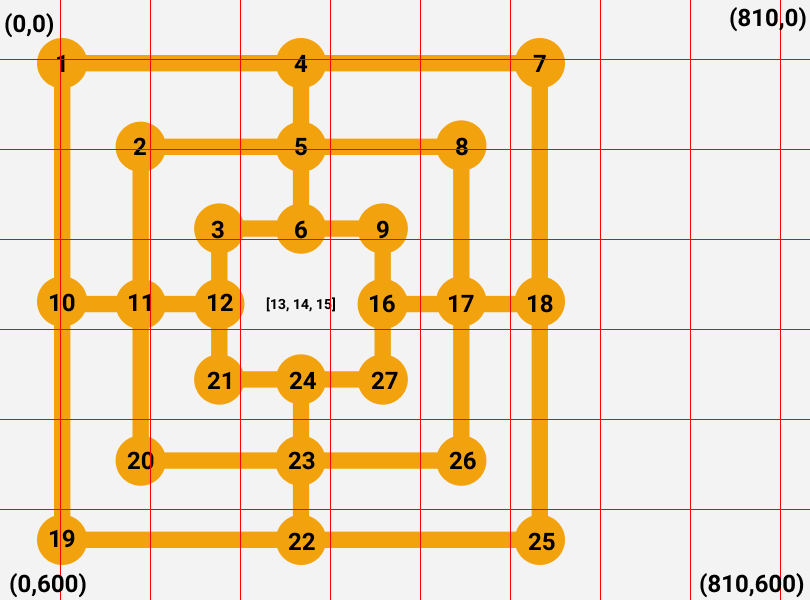
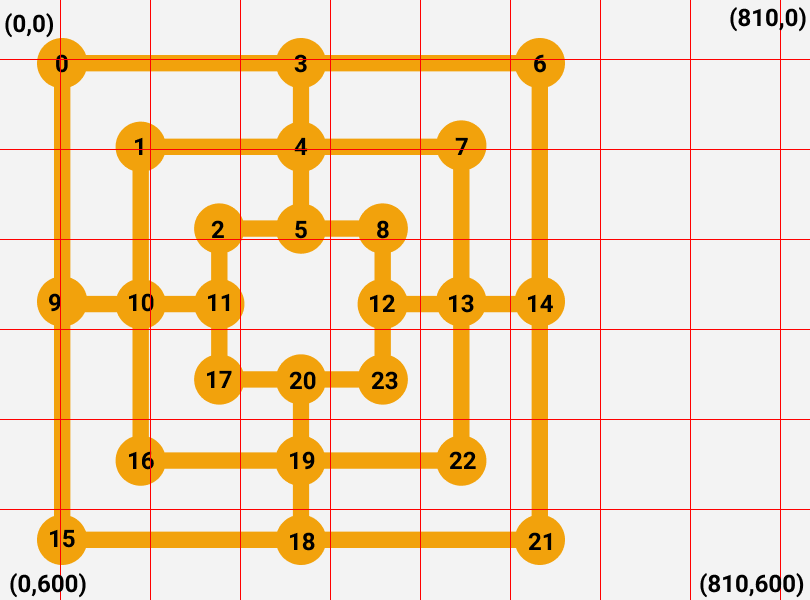
Nova busca de trilha + nova modelagem do jogo

diff --git a/genetic.py b/genetic.py
@@ -2,27 +2,30 @@
 Algoritmo Genético do Jogo
 '''
 from genetico import Genetico
-
+import numpy as np
 
 class Genetic:
     def __init__(self):
-        self.sizeChromosome = 27
+        self.sizeChromosome = 24
         # Random
         # self.chromosome = [1,2,0,0,2,0,1,0,1,2,1,2,1,2,0,0,0,2,1,2,0,1,0,2,0,2,1]
         # start
-        self.chromosome = [0,0,0,0,0,0,0,0,0,0,0,0,0,0,0,0,0,0,0,0,0,0,0,0,0,0,0]
+        self.chromosome = [0,0,0,0,0,0,0,0,0,0,0,0,0,0,0,0,0,0,0,0,0,0,0,0]
         # begin 2nd stage
         # self.chromosome = [2,2,2,2,2,2,2,2,2,0,0,0,0,0,0,0,0,0,1,1,1,1,1,1,1,1,1]
 
     def getChromosome(self):
         return self.chromosome
 
+    def getSizeChromosome(self):
+        return self.sizeChromosome
+
     def setPositionPlayer(self, position):
-        if position >= 0 and position <= 27:
+        if position >= 0 and position <= self.sizeChromosome:
             self.chromosome[position] = 1
 
     def removePiece(self, position):
-        if position >= 0 and position <= 27:
+        if position >= 0 and position <= self.sizeChromosome:
             self.chromosome[position] = 0
 
     def setPositionMachine1stage(self):
@@ -53,88 +56,14 @@ class Genetic:
     def getQtdPiecesMachine(self):
         qtd = 0
 
-        for i in range(27):
+        for i in range(self.sizeChromosome):
             if self.chromosome[i] == 2:
                 qtd = qtd + 1
 
         return qtd
 
-    def isTrailPlayer(self):
-        if self.chromosome[0] == 1 and self.chromosome[3] == 1 and self.chromosome[6] == 1:
-            return True
-        elif self.chromosome[1] == 1 and self.chromosome[4] == 1 and self.chromosome[7] == 1:
-            return True
-        elif self.chromosome[2] == 1 and self.chromosome[5] == 1 and self.chromosome[8] == 1:
-            return True
-        elif self.chromosome[6] == 1 and self.chromosome[17] == 1 and self.chromosome[24] == 1:
-            return True
-        elif self.chromosome[7] == 1 and self.chromosome[16] == 1 and self.chromosome[25] == 1:
-            return True
-        elif self.chromosome[8] == 1 and self.chromosome[15] == 1 and self.chromosome[26] == 1:
-            return True
-        elif self.chromosome[18] == 1 and self.chromosome[21] == 1 and self.chromosome[24] == 1:
-            return True
-        elif self.chromosome[19] == 1 and self.chromosome[22] == 1 and self.chromosome[25] == 1:
-            return True
-        elif self.chromosome[20] == 1 and self.chromosome[23] == 1 and self.chromosome[26] == 1:
-            return True
-        elif self.chromosome[0] == 1 and self.chromosome[9] == 1 and self.chromosome[18] == 1:
-            return True
-        elif self.chromosome[1] == 1 and self.chromosome[10] == 1 and self.chromosome[19] == 1:
-            return True
-        elif self.chromosome[2] == 1 and self.chromosome[11] == 1 and self.chromosome[20] == 1:
-            return True
-        elif self.chromosome[3] == 1 and self.chromosome[4] == 1 and self.chromosome[5] == 1:
-            return True
-        elif self.chromosome[15] == 1 and self.chromosome[16] == 1 and self.chromosome[17] == 1:
-            return True
-        elif self.chromosome[21] == 1 and self.chromosome[22] == 1 and self.chromosome[23] == 1:
-            return True
-        elif self.chromosome[9] == 1 and self.chromosome[10] == 1 and self.chromosome[11] == 1:
-            return True
-        else:
-            return False
-
-    def isTrailMachine(self):
-        if self.chromosome[0] == 2 and self.chromosome[3] == 2 and self.chromosome[6] == 2:
-            return True
-        elif self.chromosome[1] == 2 and self.chromosome[4] == 2 and self.chromosome[7] == 2:
-            return True
-        elif self.chromosome[2] == 2 and self.chromosome[5] == 2 and self.chromosome[8] == 2:
-            return True
-        elif self.chromosome[6] == 2 and self.chromosome[17] == 2 and self.chromosome[24] == 2:
-            return True
-        elif self.chromosome[7] == 2 and self.chromosome[16] == 2 and self.chromosome[25] == 2:
-            return True
-        elif self.chromosome[8] == 2 and self.chromosome[15] == 2 and self.chromosome[26] == 2:
-            return True
-        elif self.chromosome[18] == 2 and self.chromosome[21] == 2 and self.chromosome[24] == 2:
-            return True
-        elif self.chromosome[19] == 2 and self.chromosome[22] == 2 and self.chromosome[25] == 2:
-            return True
-        elif self.chromosome[20] == 2 and self.chromosome[23] == 2 and self.chromosome[26] == 2:
-            return True
-        elif self.chromosome[0] == 2 and self.chromosome[9] == 2 and self.chromosome[18] == 2:
-            return True
-        elif self.chromosome[1] == 2 and self.chromosome[10] == 2 and self.chromosome[19] == 2:
-            return True
-        elif self.chromosome[2] == 2 and self.chromosome[11] == 2 and self.chromosome[20] == 2:
-            return True
-        elif self.chromosome[3] == 2 and self.chromosome[4] == 2 and self.chromosome[5] == 2:
-            return True
-        elif self.chromosome[15] == 2 and self.chromosome[16] == 2 and self.chromosome[17] == 2:
-            return True
-        elif self.chromosome[21] == 2 and self.chromosome[22] == 2 and self.chromosome[23] == 2:
-            return True
-        elif self.chromosome[9] == 2 and self.chromosome[10] == 2 and self.chromosome[11] == 2:
-            return True
-        else:
-            return False
-
-
 def main():
     print('genetic works!')
-
 
 if __name__ == "__main__":
     main()

diff --git a/controller.py b/controller.py
@@ -7,21 +7,24 @@ import numpy as np
 
 class Controller:    
     def __init__(self):
-        inv = -30
-
         # Configurações gerais
-        self.points = [[inv, inv], [61, 63], [140, 146], [220, 229], [300, 63], [300, 146], [300, 229], [540, 63], [461, 146], [382, 229], [61, 304], [140, 304], [220, 304], [inv, inv], [inv, inv], [inv, inv], [381, 304], [460, 304], [538, 304], [61, 539], [140, 461], [220, 380], [300, 539], [300, 461], [300, 380], [540, 539], [461, 461], [382, 380]]    
+        self.points = [[61, 63], [140, 146], [220, 229], [300, 63], [300, 146], [300, 229], [540, 63], [461, 146], [382, 229], [61, 304], [140, 304], [220, 304], [381, 304], [460, 304], [538, 304], [61, 539], [140, 461], [220, 380], [300, 539], [300, 461], [300, 380], [540, 539], [461, 461], [382, 380]]    
         
         # Ligações entre os nodos
-        self.neighbor = {1: [4, 10], 2: [5, 11], 3: [6, 12], 4: [1, 5, 7], 5: [2, 4, 6, 8], 6: [3, 5, 9], 7: [4, 18], 8: [5, 17], 9: [6, 16], 10: [1, 11, 19], 11: [2, 10, 12, 20], 12: [3, 11, 21], 16: [9, 17, 27], 17: [8, 16, 18, 26], 18: [7, 17, 25], 19: [10, 22], 20: [11, 23], 21: [12, 24], 22: [19, 23, 25], 23: [20, 22, 24, 26], 24: [21, 23, 27], 25: [18, 22], 26: [17, 23], 27: [16, 24]}
+        self.neighbor = {0: [3, 9], 1: [4, 10], 2: [5, 11], 3: [0, 4, 6], 4: [1, 3, 5, 7], 5: [2, 4, 8], 6: [3, 14], 7: [4, 13], 8: [5, 12], 9: [0, 10, 15], 10: [1, 9, 11, 16], 11: [2, 10, 17], 12: [8, 13, 23], 13: [7, 12, 14, 22], 14: [6, 13, 21], 15: [9, 18], 16: [10, 19], 17: [11, 20], 18: [15, 19, 21], 19: [16, 18, 20, 22], 20: [17, 19, 23], 21: [14, 18], 22: [13, 19], 23: [12, 20]}
         self.qtdPoints = len(self.points)
         self.radius = 30
-        self.excluds = [0,13,14,15]
-        
+
         # stage Controller
         self.stage1 = False
         self.stage2 = False
         self.stage3 = False
+
+        # array de trilhas formadas
+        self.trailPlayer = np.zeros((self.qtdPoints, self.qtdPoints, self.qtdPoints))
+        self.trailMachine = np.zeros((self.qtdPoints, self.qtdPoints, self.qtdPoints))
+        self.setTrailPositionsPlayer()
+        self.setTrailPositionsMachine()
 
     def getX(self, x):
         for i in range(self.qtdPoints):
@@ -38,7 +41,7 @@ class Controller:
         return -30
 
     def getXY(self, i):
-        if i <= 27 and i not in self.excluds:
+        if i <= self.qtdPoints:
             return self.points[i]
 
         return [-100, -100]
@@ -55,18 +58,68 @@ class Controller:
             if x >= self.points[i][0] - self.radius and x <= self.points[i][0] + self.radius and y >= self.points[i][1] - self.radius and y <= self.points[i][1] + self.radius:
                 return i
 
-        return 0
+        return -1
 
-    def getNeighbor(self, i):
-        if i >= 0 and i <= 27 and not i in self.excluds :
-            return self.neighbor[i]
+    def setTrailPositionsPlayer(self):
+        self.trailPlayer[0][3][6] = 1
+        self.trailPlayer[1][4][7] = 1
+        self.trailPlayer[2][5][8] = 1
+        self.trailPlayer[17][20][23] = 1
+        self.trailPlayer[16][19][22] = 1
+        self.trailPlayer[15][18][21] = 1
+        self.trailPlayer[12][13][14] = 1
+        self.trailPlayer[9][10][11] = 1
+        self.trailPlayer[0][9][15] = 1
+        self.trailPlayer[1][10][16] = 1
+        self.trailPlayer[2][11][17] = 1
+        self.trailPlayer[8][12][23] = 1
+        self.trailPlayer[7][13][22] = 1
+        self.trailPlayer[6][14][21] = 1
+        self.trailPlayer[3][4][5] = 1
+        self.trailPlayer[20][19][18] = 1
 
-        else:
-            return []
+    def setTrailPositionsMachine(self):
+        self.trailMachine[0][3][6] = 1
+        self.trailMachine[1][4][7] = 1
+        self.trailMachine[2][5][8] = 1
+        self.trailMachine[17][20][23] = 1
+        self.trailMachine[16][19][22] = 1
+        self.trailMachine[15][18][21] = 1
+        self.trailMachine[12][13][14] = 1
+        self.trailMachine[9][10][11] = 1
+        self.trailMachine[0][9][15] = 1
+        self.trailMachine[1][10][16] = 1
+        self.trailMachine[2][11][17] = 1
+        self.trailMachine[8][12][23] = 1
+        self.trailMachine[7][13][22] = 1
+        self.trailMachine[6][14][21] = 1
+        self.trailMachine[3][4][5] = 1
+        self.trailMachine[20][19][18] = 1
 
+    def isTrailPlayer(self, chromosome):
+        for i in range(self.qtdPoints):
+            for j in range(self.qtdPoints):
+                for k in range(self.qtdPoints):
+                    if self.trailPlayer[i][j][k] == 1:
+                        if chromosome[i] == 1 and chromosome[j] == 1 and chromosome[k] == 1:
+                            self.trailPlayer[i][j][k] = 0
+                            return True
+        return False
+                            
+    def isTrailMachine(self, chromosome):
+        for i in range(self.qtdPoints):
+            for j in range(self.qtdPoints):
+                for k in range(self.qtdPoints):
+                    if self.trailPlayer[i][j][k] == 1:
+                        if chromosome[i] == 1 and chromosome[j] == 1 and chromosome[k] == 1:
+                            self.trailPlayer[i][j][k] = 0
+                            return True
+        return False
 
 def main():
     control = Controller()
+    
+    print(control.trailPlayer[0][3][6])
 
     # matriz de interesse
     # print(control.match(290, 390))

diff --git a/main.py b/main.py
@@ -39,10 +39,13 @@ red  = {'img': pygame.image.load('assets/red.png'), 'x': -60, 'y': -60}
 dark = {'img': pygame.image.load('assets/dark.png'), 'x': -60, 'y': -60}
 
 # estilo do jogo
-fontSize = 40
+fontSize = 32
 myfont = pygame.font.Font('assets/lobster.ttf', fontSize)
 stringPlayer = myfont.render('Sua Vez!', False, (0, 0, 0))
 stringMachine = myfont.render('Aguarde...', False, (0, 0, 0))
+string1stage = myfont.render('1º Estágio', False, (0, 0, 0))
+string2stage = myfont.render('2º Estágio', False, (0, 0, 0))
+string3stage = myfont.render('3º Estágio', False, (0, 0, 0))
 
 # API controller - (GAME)
 table = Controller()
@@ -52,12 +55,15 @@ gene = Genetic()
 
 # número pra desenhar fora da tela
 numOutScreen = -100
+ 
+# Controle de click inválido
+nullMove = -1
 
 # render mark
 def renderMark():
     position = table.getMark(mouse_x, mouse_y)
-    beFree = gene.getChromosome()[position-1] == 0
-    playerHere = gene.getChromosome()[position-1] == 1
+    beFree = gene.getChromosome()[position] == 0
+    playerHere = gene.getChromosome()[position] == 1
 
     if table.stage1 and table.match(mouse_x, mouse_y) and beFree:
         mark['x'] = table.getX(mouse_x)
@@ -80,11 +86,11 @@ def render(qtd_pieces, pieces):
 
     for i in range(0, qtd_pieces):
         if pieces[i] == 1:
-            position = table.getXY(i+1)
+            position = table.getXY(i)
             screen.blit(red['img'], (position[0]-diff, position[1]-diff))
         
         elif pieces[i] == 2:
-            position = table.getXY(i+1)
+            position = table.getXY(i)
             screen.blit(dark['img'], (position[0]-diff, position[1]-diff))
 
 # Define em qual estágio o jogo se encontra
@@ -110,18 +116,18 @@ def setState():
 def actionGame():
     if table.stage1:
         position = table.getMark(mouse_x, mouse_y)
-        beFree = gene.getChromosome()[position-1] == 0
+        beFree = gene.getChromosome()[position] == 0
 
         if beFree:
-            gene.setPositionPlayer(position-1)
+            gene.setPositionPlayer(position)
             gene.setPositionMachine1stage()
 
     if table.stage2:
         position = table.getMark(mouse_x, mouse_y)
-        playerHere = gene.getChromosome()[position-1] == 1
+        playerHere = gene.getChromosome()[position] == 1
 
         if playerHere:
-            gene.removePiece(position-1)
+            gene.removePiece(position)
 
 
 # flag de controle do jogo
@@ -138,12 +144,12 @@ while run:
         marker = table.getMark(mouse_x, mouse_y) 
         print(mouse, ' -> ', marker)
         
-        if marker != 0: actionGame()
+        if marker != nullMove: actionGame()
 
     screen.blit(tabuleiro, (0,0))
 
     # função que renderiza as peças do jogo
-    render(27, gene.getChromosome())
+    render(gene.getSizeChromosome(), gene.getChromosome())
     # render(24, gene.getChromosome())
     
     # função que renderiza o marcador
@@ -152,9 +158,14 @@ while run:
     # definir estágio do jogo
     setState()
 
-    if gene.isTrailPlayer(): print("Trilha Player!!")
-    if gene.isTrailMachine(): print("Trilha Machine!!")
+    if table.isTrailPlayer(gene.getChromosome()): print("Trilha Player!!")
+    if table.isTrailMachine(gene.getChromosome()): print("Trilha Machine!!")
 
     screen.blit(mark['img'], (mark['x'], mark['y']))
     screen.blit(stringPlayer,(tabuleiro.get_width()-200, 35))
+
+    if table.stage1: screen.blit(string1stage,(tabuleiro.get_width()-200, 100))
+    elif table.stage2: screen.blit(string2stage,(tabuleiro.get_width()-200, 100))
+    else: screen.blit(string3stage,(tabuleiro.get_width()-200, 100))
+    
     pygame.display.flip()
